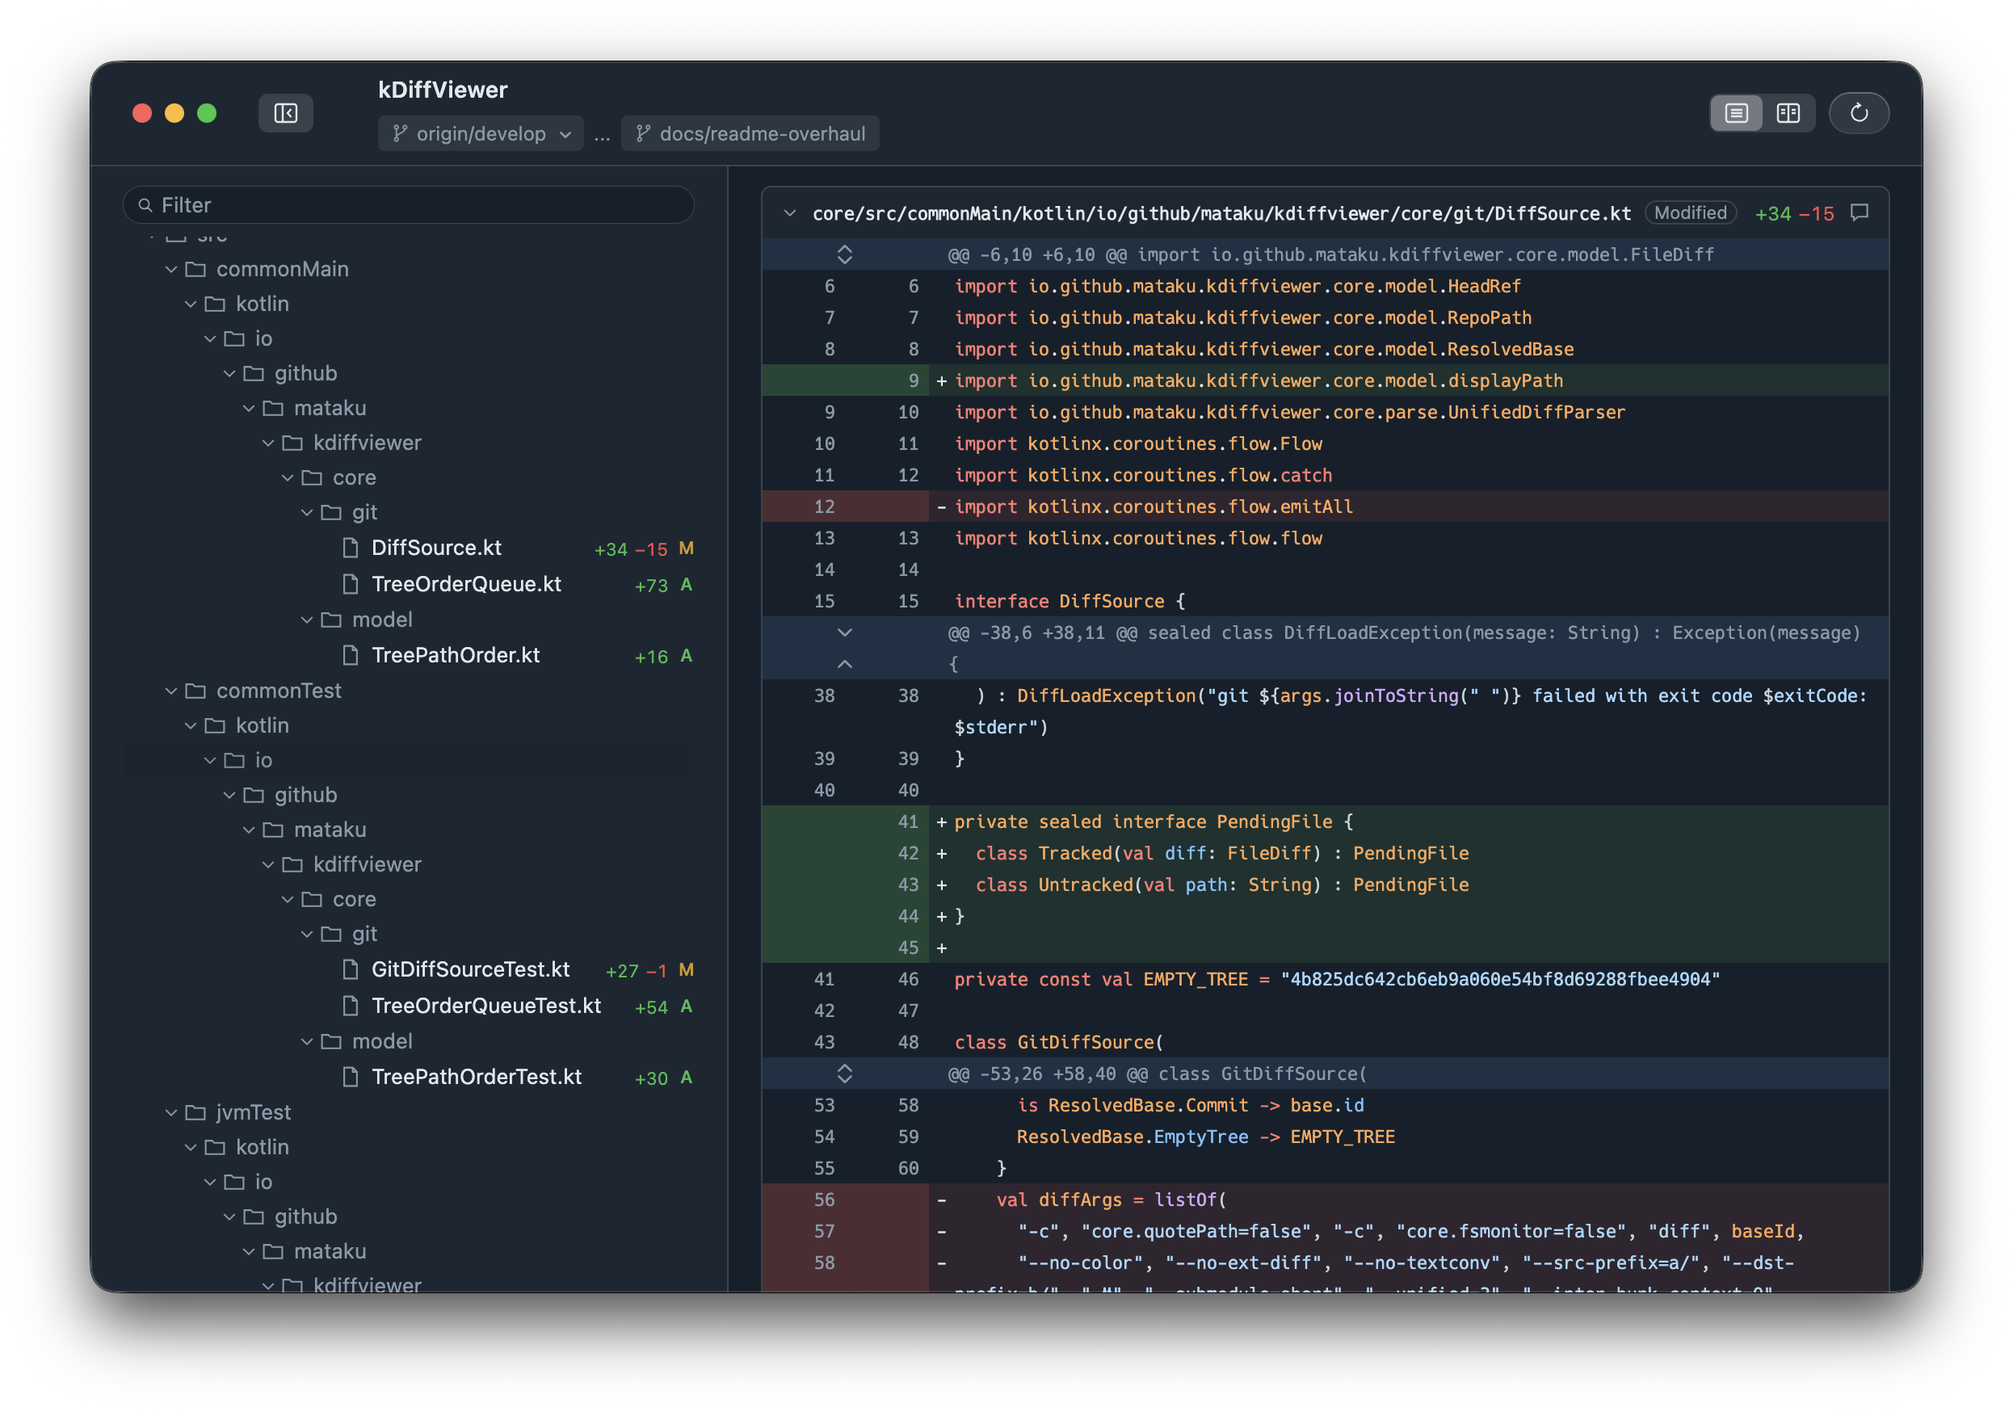
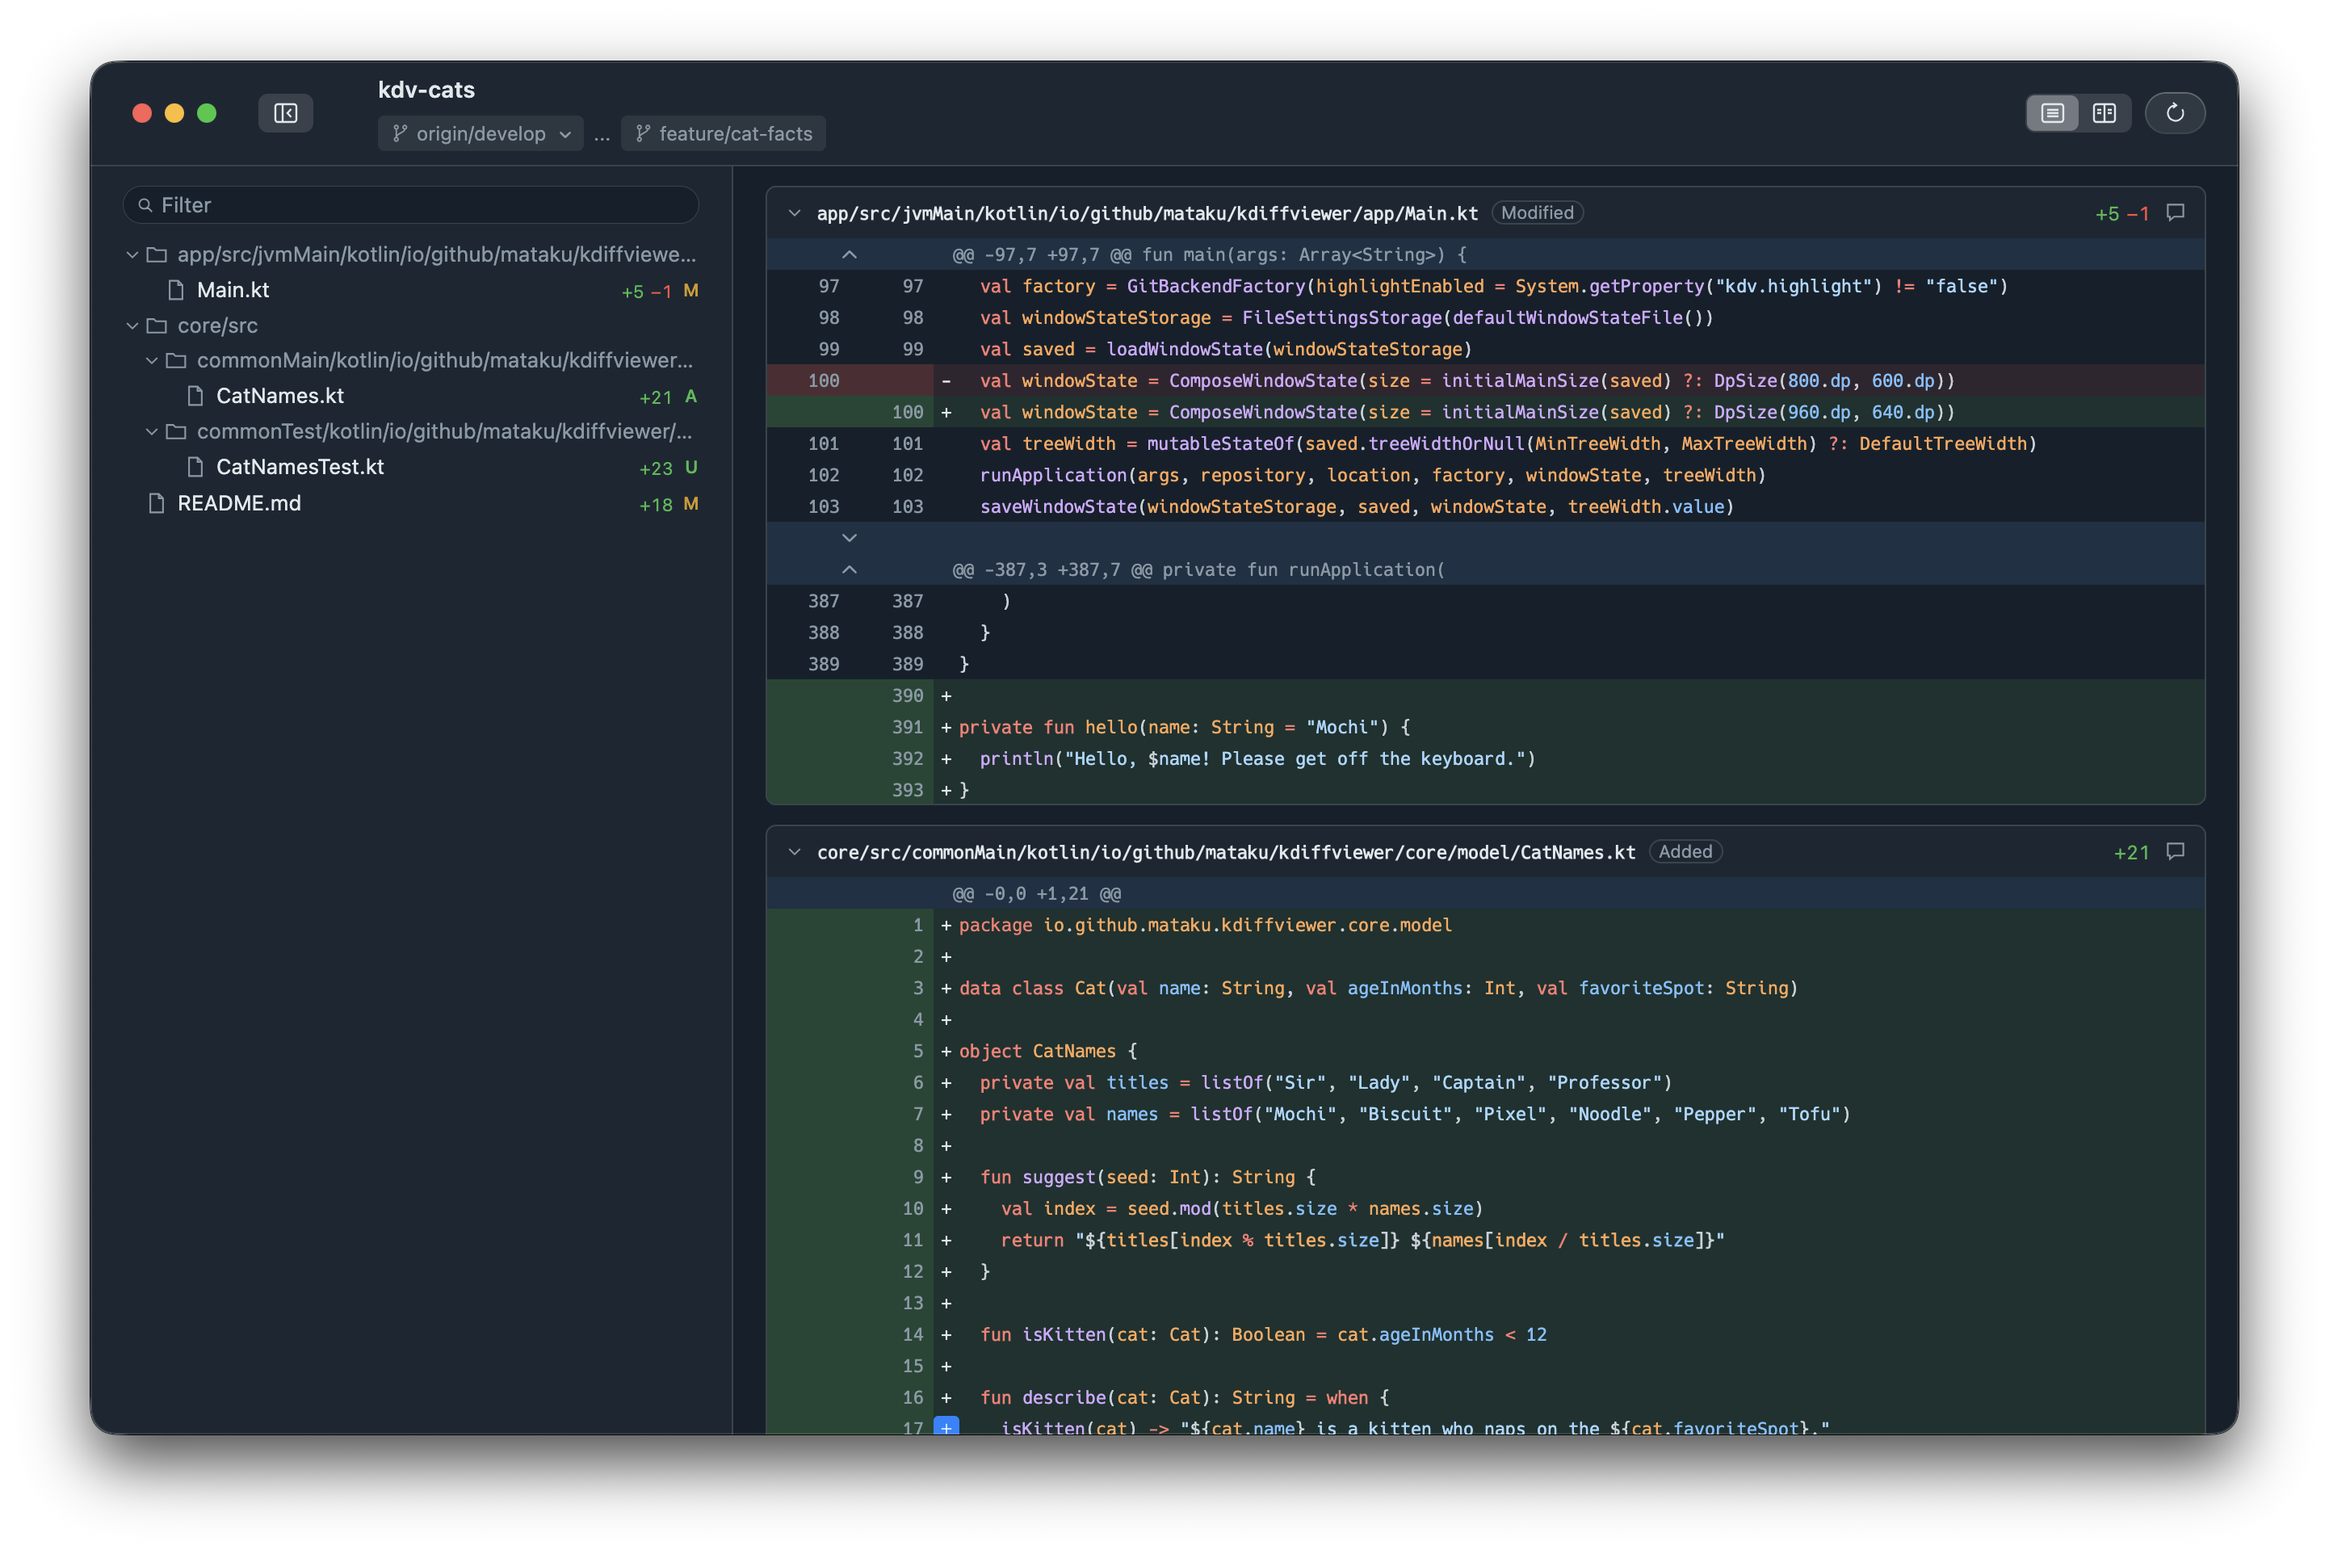
Current status

diff --git a/README.md b/README.md
@@ -1,6 +1,6 @@
 # kDiffViewer
 
-![](./docs/images/dim-screen.png)
+![kDiffViewer in the Dim appearance, showing the file tree and a syntax-highlighted unified diff](./docs/images/dim-screen.png)
 
 kDiffViewer is a macOS desktop viewer for the git diff of a branch and its working tree, built with Kotlin Multiplatform and Compose Desktop. It shows everything since the branch point, including uncommitted work, in a GitHub-like view, and lets you leave review comments that a coding agent can read and answer from the terminal.
 
@@ -66,6 +66,8 @@ The base can also be changed from the toolbar: click the base tag to open a popu
 ## Reviewing with a coding agent
 
 You review a coding agent's changes in the app the way you would review a pull request, and the agent reads and answers your comments from the terminal through the `kdv` command.
+
+![A review thread in kDiffViewer with a comment on a line and a reply from a coding agent, and the bar under the diff with Approve and Send to Agent](./docs/images/agent-review.png)
 
 To get started, install the `kdv-review` agent skill from this repository. It has the agent run `kdv agent-guide` and follow the instructions it prints, so `kdv` must be on your `PATH` (see [Install](#install)).
 
